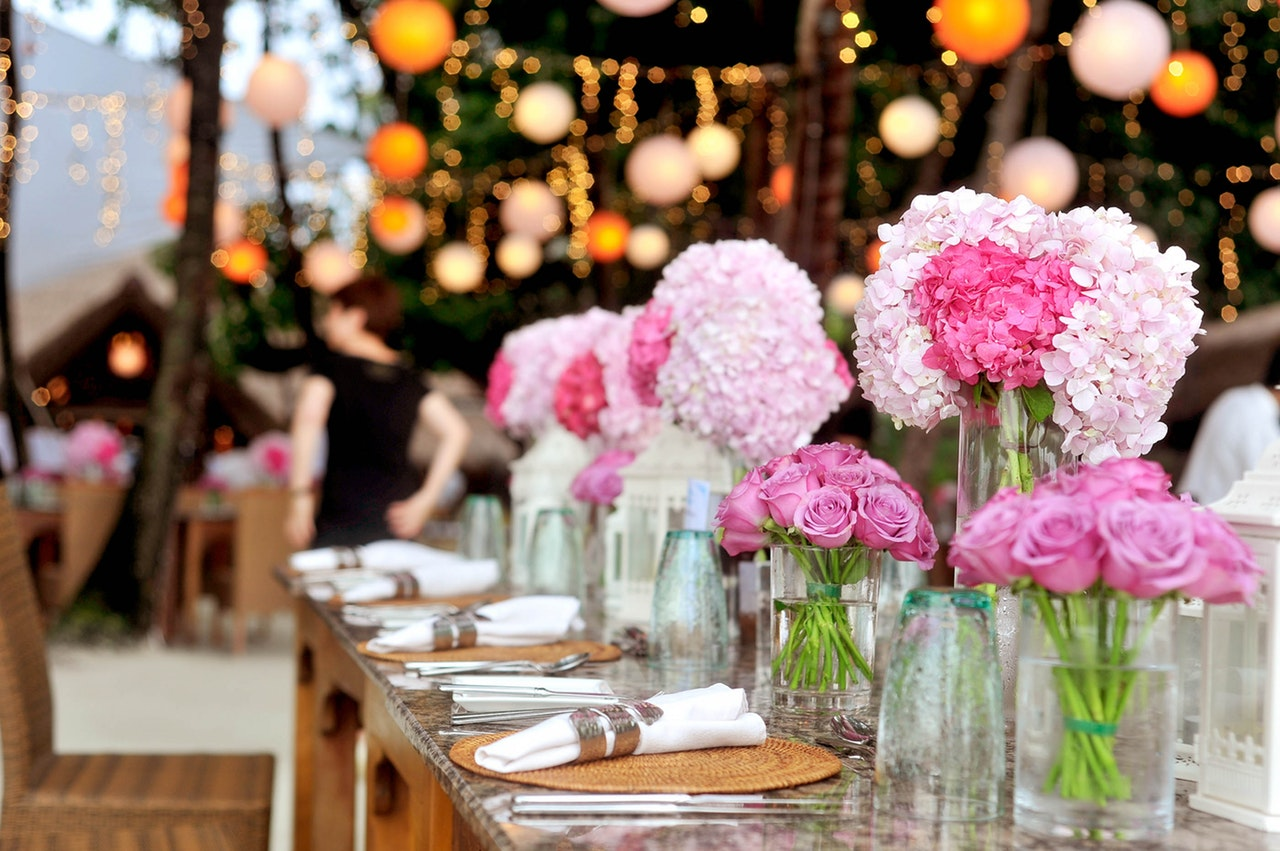
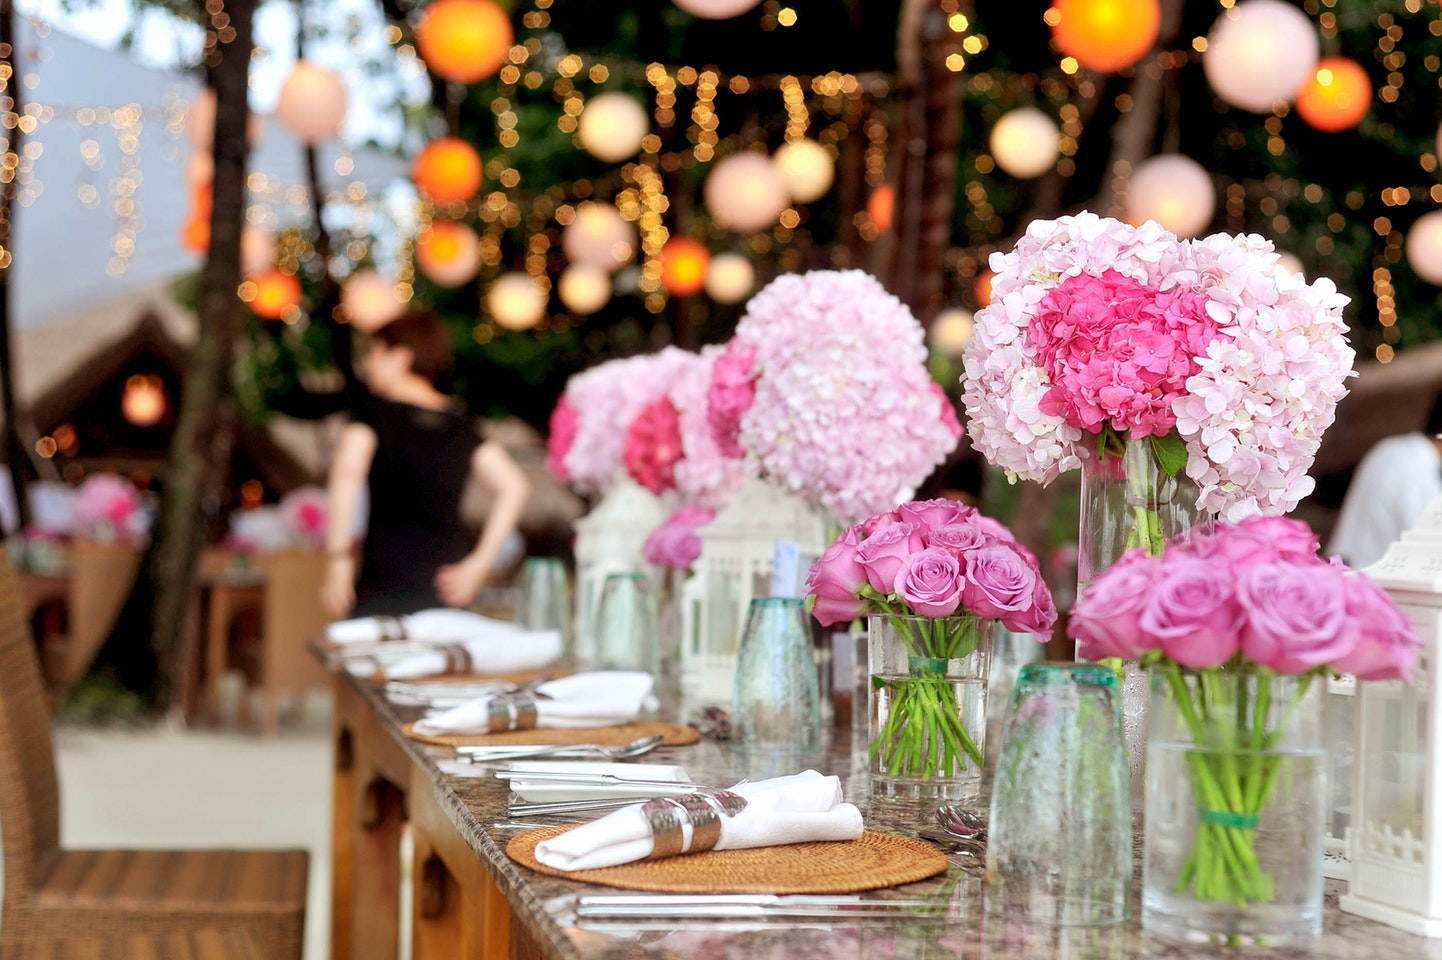
change image size & fix styles

Changed region(s): [[0.3125, 0.7638, 0.6875, 0.9777], [0.6875, 0.611, 0.7188, 0.6416], [0.625, 0.611, 0.6562, 0.6416]]

diff --git a/css/prefixed.css b/css/prefixed.css
@@ -8,7 +8,7 @@ html {
 }
 /*nav*/
 nav {	
-	position: fixed;
+	position: relative;
 	top: 0;	
 	left: 0;
 	right: 0;	
@@ -54,7 +54,7 @@ nav ul li a {
 	transition: .5s;	  	
 }
 nav ul li:first-child a {
-	margin: 5px;
+	margin: 5px 5px 1px 5px;
 	padding: 0;	
 	box-shadow: none;
 }
@@ -87,7 +87,7 @@ nav ul li:first-child a:hover {
 @media(max-width: 1024px) {
 	.navigation {
 		background-color: #333;		
-		/*height: 114px;*/
+		height: 110px;
 		width: 100%;
 		box-shadow: 0 4px 10px -2px #aaa;
 	}
@@ -191,7 +191,7 @@ nav ul li:first-child a:hover {
 		margin: 5px;
 	}
 	nav {		
-	 	top: -110vh;	
+	 	top: -165vh;	
 	}
 }
 @media(max-width: 825px) and (orientation: landscape) {
@@ -222,7 +222,7 @@ nav ul li:first-child a:hover {
 		font-size: 18px;	  			  	
 	}
 	nav {		
-	 	top: -110vh;	
+	 	top: -130vh;	
 	}
 }
 
@@ -230,11 +230,11 @@ nav ul li:first-child a:hover {
 .welcome {
 	position: relative;
 	max-width: 1280px;
-	margin: 135px auto 0;
-	height: -webkit-calc(100vh - 135px);
-	height: calc(100vh - 135px);
+	margin: 0 auto;
+	height: -webkit-calc(100vh - 131px);
+	height: calc(100vh - 131px);
 	width: 100%;
-	background-image: url(../images/lavender.jpg);
+	background-image: url(../images/lavender1.jpg);
 	background-repeat: no-repeat;
 	background-size: cover; 
 	background-position: center;	
@@ -242,14 +242,14 @@ nav ul li:first-child a:hover {
 }
 .welcome-wrap {
 	position: absolute;
-	height: -webkit-calc(100vh - 135px);
-	height: calc(100vh - 135px);
+	height: -webkit-calc(100vh - 131px);
+	height: calc(100vh - 131px);
 	width: 100%;
 	background-color: rgba(0, 0, 0, 0.6);
 }
 .welcome h1 {
 	font-family: 'Charmonman', cursive;
-	font-size: 100px;
+	font-size: 90px;
 	color: #9595ea;	
 	text-transform: capitalize; 
 	text-shadow: 0px 0px 1px #222;	
@@ -258,10 +258,11 @@ nav ul li:first-child a:hover {
 	margin-top: -70px;
 }
 .welcome h2 {	
-	font-size: 50px;
-	margin: 30px 15px;
+	font-size: 48px;
+	margin: 20px 15px;
 	text-transform: uppercase;
 	color: #fff;
+	letter-spacing: 3px
 }
 .welcome p {
 	font-size: 40px;
@@ -270,7 +271,7 @@ nav ul li:first-child a:hover {
 }
 .welcome button.arrow-down {
 	position: absolute;
-	bottom: 10%;
+	bottom: 4%;
 	left: 50%;
 	-webkit-transform: translateX(-50%);
 	    -ms-transform: translateX(-50%);
@@ -553,8 +554,8 @@ div.arrow {
 }
 @media(max-width: 1024px) {
 	.banner {					
-		height: -webkit-calc(100vh - 144px);					
-		height: calc(100vh - 144px);		
+		/*height: calc(100vh - 131px);		*/
+		height: 100vh;
 	}
 	.banner-text h1 {		
 		font-size: 42px;	

diff --git a/css/style.css b/css/style.css
@@ -8,7 +8,7 @@ html {
 }
 /*nav*/
 nav {	
-	position: fixed;
+	position: relative;
 	top: 0;	
 	left: 0;
 	right: 0;	
@@ -48,7 +48,7 @@ nav ul li a {
 	transition: .5s;	  	
 }
 nav ul li:first-child a {
-	margin: 5px;
+	margin: 5px 5px 1px 5px;
 	padding: 0;	
 	box-shadow: none;
 }
@@ -77,7 +77,7 @@ nav ul li:first-child a:hover {
 @media(max-width: 1024px) {
 	.navigation {
 		background-color: #333;		
-		/*height: 114px;*/
+		height: 110px;
 		width: 100%;
 		box-shadow: 0 4px 10px -2px #aaa;
 	}
@@ -163,7 +163,7 @@ nav ul li:first-child a:hover {
 		margin: 5px;
 	}
 	nav {		
-	 	top: -110vh;	
+	 	top: -165vh;	
 	}
 }
 @media(max-width: 825px) and (orientation: landscape) {
@@ -192,7 +192,7 @@ nav ul li:first-child a:hover {
 		font-size: 18px;	  			  	
 	}
 	nav {		
-	 	top: -110vh;	
+	 	top: -130vh;	
 	}
 }
 
@@ -200,25 +200,25 @@ nav ul li:first-child a:hover {
 .welcome {
 	position: relative;
 	max-width: 1280px;
-	margin: 135px auto 0;
-	height: calc(100vh - 135px);
+	margin: 0 auto;
+	height: calc(100vh - 131px);
 	width: 100%;
-	background-image: url(../images/lavender.jpg);
+	background-image: url(../images/lavender1.jpg);
 	background-repeat: no-repeat;
 	-webkit-background-size: cover;
-	 background-size: cover; 
+	background-size: cover; 
 	background-position: center;	
 	text-align: center; 
 }
 .welcome-wrap {
 	position: absolute;
-	height: calc(100vh - 135px);
+	height: calc(100vh - 131px);
 	width: 100%;
 	background-color: rgba(0, 0, 0, 0.6);
 }
 .welcome h1 {
 	font-family: 'Charmonman', cursive;
-	font-size: 100px;
+	font-size: 90px;
 	color: #9595ea;	
 	text-transform: capitalize; 
 	text-shadow: 0px 0px 1px #222;	
@@ -227,10 +227,11 @@ nav ul li:first-child a:hover {
 	margin-top: -70px;
 }
 .welcome h2 {	
-	font-size: 50px;
-	margin: 30px 15px;
+	font-size: 48px;
+	margin: 20px 15px;
 	text-transform: uppercase;
 	color: #fff;
+	letter-spacing: 3px
 }
 .welcome p {
 	font-size: 40px;
@@ -239,7 +240,7 @@ nav ul li:first-child a:hover {
 }
 .welcome button.arrow-down {
 	position: absolute;
-	bottom: 10%;
+	bottom: 4%;
 	left: 50%;
 	transform: translateX(-50%);
 	width: 60px;
@@ -453,7 +454,8 @@ div.arrow {
 }
 @media(max-width: 1024px) {
 	.banner {					
-		height: calc(100vh - 144px);		
+		/*height: calc(100vh - 131px);		*/
+		height: 100vh;
 	}
 	.banner-text h1 {		
 		font-size: 42px;	
